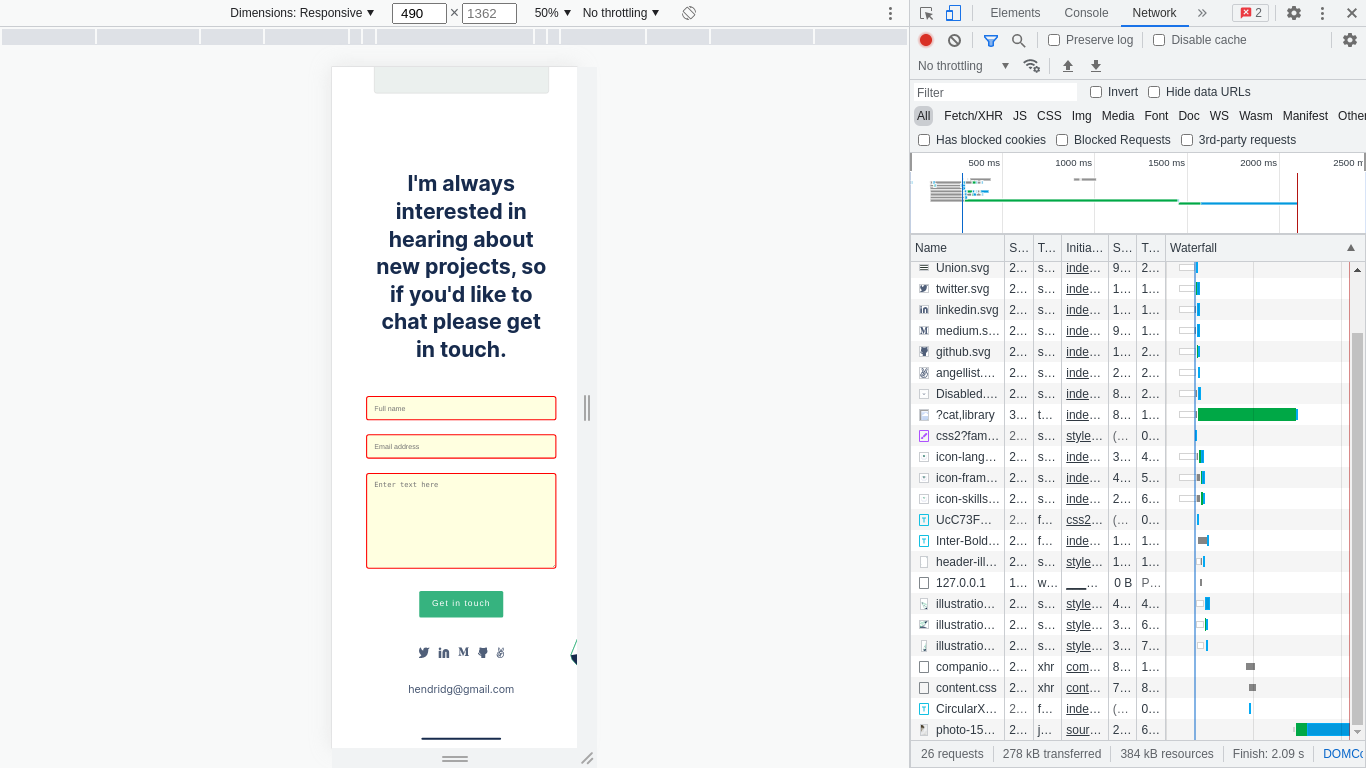
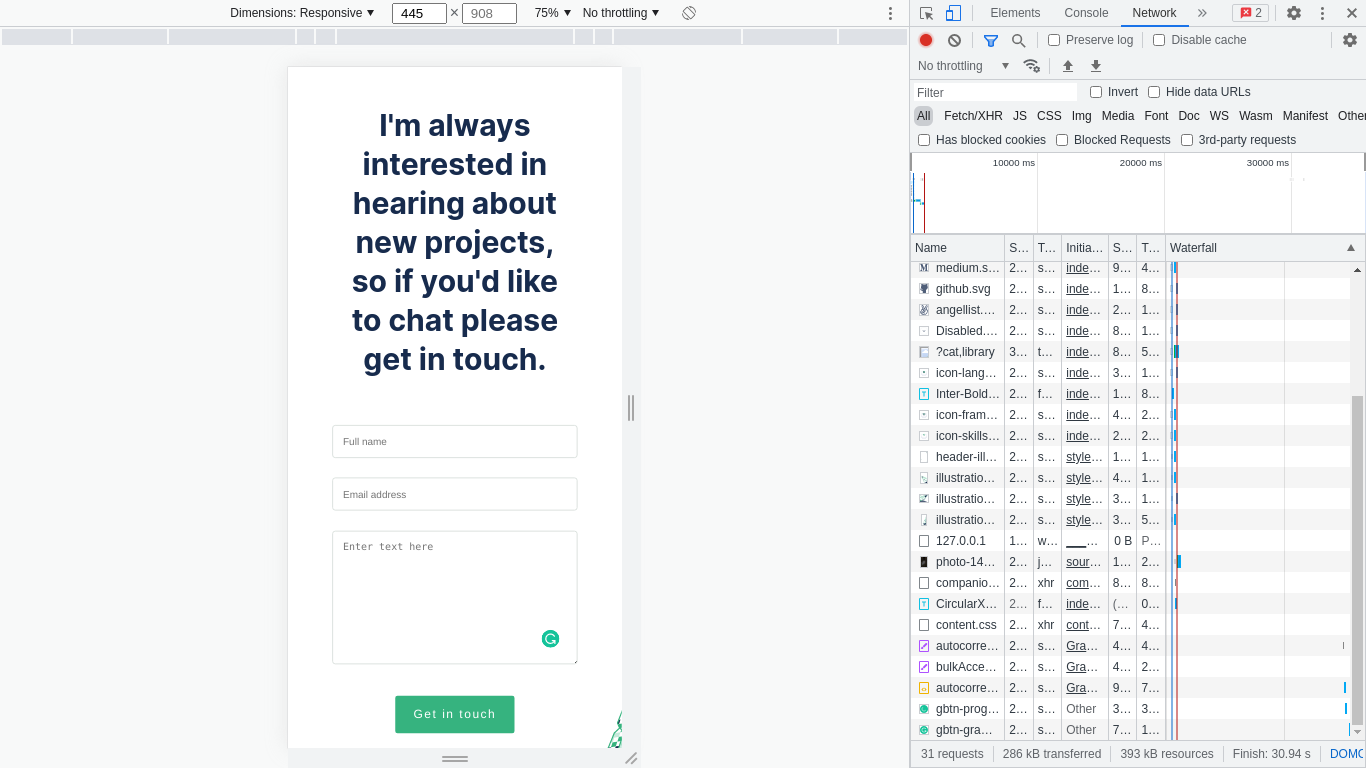
Fix style of form to adjust to Figma design

diff --git a/style.css b/style.css
@@ -273,7 +273,11 @@ textarea {
   width: 327px;
   padding: 1em;
   margin: 1em 0;
-  border-radius: 5px;
+  background: #fff;
+  border: 1px solid #d0d9d4;
+  box-sizing: border-box;
+  border-radius: 4px;
+  color: #091e42;
 }
 
 footer > a {
@@ -282,17 +286,8 @@ footer > a {
 
 input:valid,
 textarea:valid {
-  border: 2px solid #008552;
-}
-
-input:invalid,
-textarea:invalid {
-  border: 2px solid red;
-}
-
-input:invalid:required,
-textarea:invalid:required {
-  background: lightyellow;
+  border: 1px solid #60c095;
+  background: #fff;
 }
 
 footer::after {
